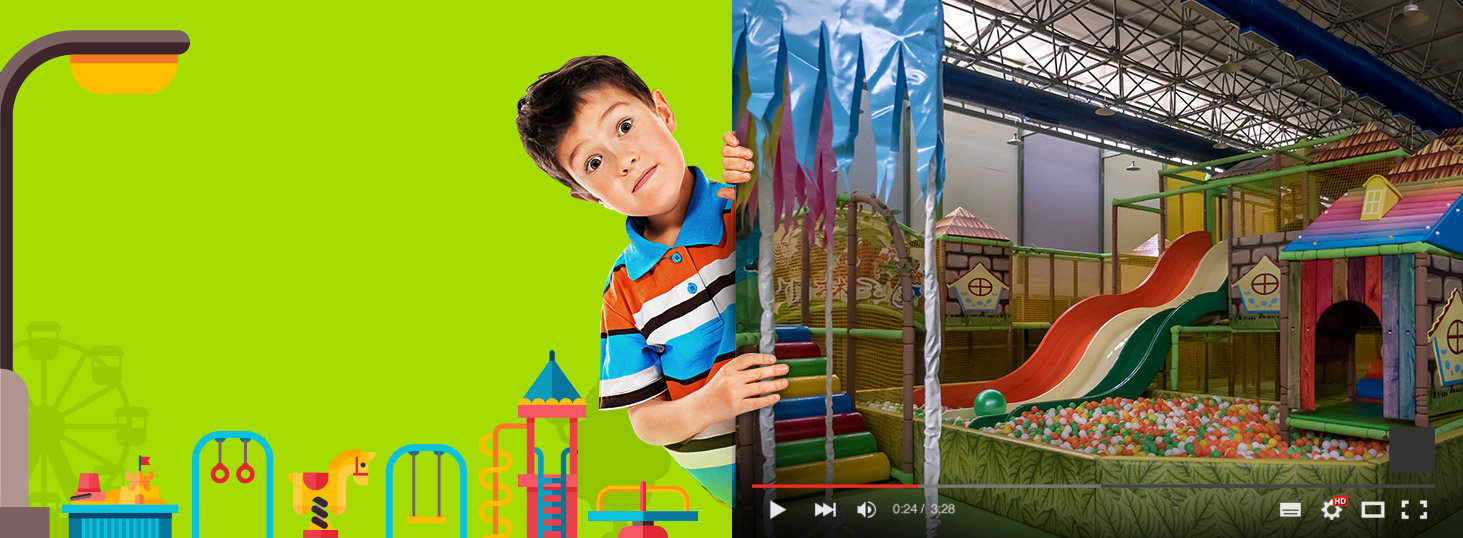
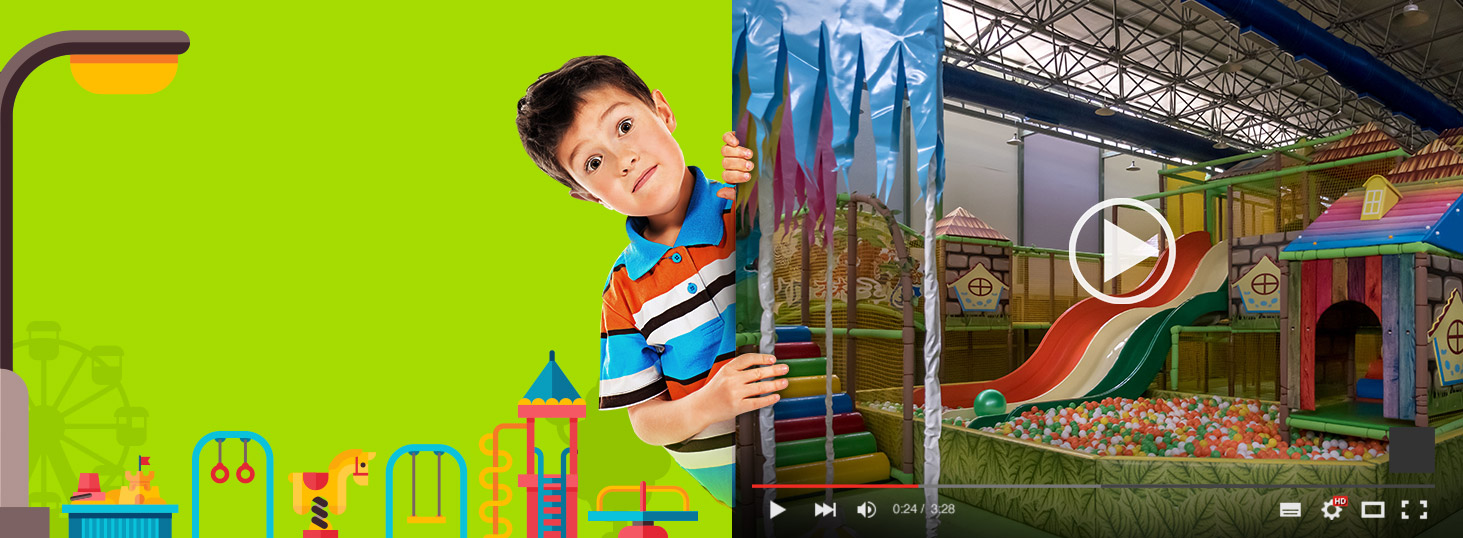
changes

Changed region(s): [[0.7075, 0.3569, 0.8305, 0.5651]]

diff --git a/production/mumbai/smaaash-junior/kids-play-area/index.html b/production/mumbai/smaaash-junior/kids-play-area/index.html
@@ -17,13 +17,25 @@
       <script src="https://oss.maxcdn.com/html5shiv/3.7.3/html5shiv.min.js"></script>
       <script src="https://oss.maxcdn.com/respond/1.4.2/respond.min.js"></script>
     <![endif]-->
+
+    <script>
+      (function(i,s,o,g,r,a,m){i['GoogleAnalyticsObject']=r;i[r]=i[r]||function(){
+      (i[r].q=i[r].q||[]).push(arguments)},i[r].l=1*new Date();a=s.createElement(o),
+      m=s.getElementsByTagName(o)[0];a.async=1;a.src=g;m.parentNode.insertBefore(a,m)
+      })(window,document,'script','https://www.google-analytics.com/analytics.js','ga');
+
+      ga('create', 'UA-65901622-1', 'auto');
+      ga('send', 'pageview');
+
+    </script>
+    
   </head>
   <body>
       
     <div class="container header_section">
       <div class="row" style="padding: 10px 0px;">
         <div class="col-md-6 col-xs-6">
-          <img src="tools/img/logo.png" alt="" class="img-responsive left_img">
+          <a href="index.html"><img src="tools/img/logo.png" alt="" class="img-responsive left_img"></a>
         </div>
         <div class="col-md-6 col-xs-6">
           <img src="tools/img/ryt_logo.png" alt="" class="img-responsive ryt_img">
@@ -121,11 +133,11 @@
             <img src="tools/img/weekdays.png" alt="" class="img-responsive end_day">
             <div class="img_mar">
               <img src="tools/img/price1.png" alt="" class="img-responsive price_img">
-              <button class="btn btn-default buy_butn" type="submit">BUY NOW</button>
+              <a class="btn btn-default buy_butn" href="https://smaaash.in/Mumbai/deals-and-packages/smaaash-junior-kids-play-area-60" target="_blank" role="button">BUY NOW</a>
             </div>
             <div class="img_mar2">
               <img src="tools/img/price2.png" alt="" class="img-responsive price_img">
-              <button class="btn btn-default buy_butn" type="submit">BUY NOW</button>
+              <a class="btn btn-default buy_butn" href="https://smaaash.in/Mumbai/deals-and-packages/smaaash-junior-kids-play-area-90" target="_blank" role="button">BUY NOW</a>
             </div>
           </div>
           </div>
@@ -136,11 +148,11 @@
             <img src="tools/img/weekends.png" alt="" class="img-responsive end_day">
             <div class="img_mar">
               <img src="tools/img/wprice1.png" alt="" class="img-responsive price_img">
-              <button class="btn btn-default buy_butn" type="submit">BUY NOW</button>
+              <a class="btn btn-default buy_butn" href="https://smaaash.in/Mumbai/deals-and-packages/smaaash-junior-kids-play-arena-60" target="_blank" role="button">BUY NOW</a>
             </div>
             <div class="img_mar2">
               <img src="tools/img/wprice2.png" alt="" class="img-responsive price_img">
-              <button class="btn btn-default buy_butn" type="submit">BUY NOW</button>
+              <a class="btn btn-default buy_butn" href="https://smaaash.in/Mumbai/deals-and-packages/smaaash-junior-kids-play-arena-90" target="_blank" role="button">BUY NOW</a>
             </div>
           </div>
           </div>
@@ -160,7 +172,7 @@
               <li>Indoor Kids Play Area</li>
               <li>Trampoline Park</li>
               <li>Arcade & Redemption Games</li>
-              <li class="btn_design"><button class="btn btn-default buy_butn1" type="submit">BUY NOW</button></li>
+              <li class="btn_design"><a class="btn btn-default buy_butn1" href="https://smaaash.in/Mumbai/deals-and-packages/smaaash-junior-kids-play-area-day-pass" target="_blank" role="button">BUY NOW</a></li>
             </ul>
           </div>
         </div>
@@ -169,9 +181,25 @@
 
     <div class="container video_section hidden-xs hidden-sm">
       <div class="row">
-        <div class="col-md-12 video_outer">
-          <img src="tools/img/video.jpg" class="img-responsive">
+        <div class="col-xs-12 video_outer">
+          <div data-toggle="modal" data-target="#myModal"><img src="tools/img/video.jpg" alt="" class="img-responsive"></div>
           <p class="video_text">Non-stop fun for non-stop kids. Take a <br>sneak peak into how your little ones <br>would have a whale of a time at <br>Smaaash Junior. They’ll slide, swirl, <br>jump, scream and stay jovial throughout, <br>we bet. The happy faces say it all!</p>
+
+          <!-- Modal -->
+          <div class="modal fade bs-example-modal-lg" id="myModal" role="dialog">
+            <div class="modal-dialog modal-lg">
+            
+              <!-- Modal content-->
+              <div class="modal-content">
+                <div class="modal-body" style="background-color: #000;">
+                  <button type="button" class="close clse_design" data-dismiss="modal">&times;</button>
+                  <iframe width="100%" height="500" src="https://www.youtube.com/embed/FNJCWrgHmqA" frameborder="0" allowfullscreen></iframe> 
+                </div>
+              </div>
+              
+            </div>
+          </div>
+
         </div>
       </div>
     </div>
@@ -179,7 +207,7 @@
     <div class="container hidden-md hidden-lg">
       <div class="row">
         <div class="col-xs-12 video_outer">
-          <img src="tools/img/cloud.jpg" alt="" class="img-responsive">
+          <a href="https://smaaash.in/Mumbai/deals-and-packages/smaaash-junior-kids-play-area-day-pass" target="_blank"><img src="tools/img/cloud.jpg" alt="" class="img-responsive"></a>
         </div>
       </div>
        <div class="row">
@@ -226,16 +254,33 @@
             <!-- Wrapper for slides -->
             <div class="carousel-inner">
               <div class="item active">
-                <img src="tools/img/gallery.png" alt="" class="img-responsive" style="margin: 0 auto; height:250px;">
+                <img src="tools/img/gallery1.png" alt="" class="img-responsive" style="margin: 0 auto; height:250px;">
               </div>
 
               <div class="item">
-                <img src="tools/img/gallery.png" alt="" class="img-responsive" style="margin: 0 auto; height:250px;">
+                <img src="tools/img/gallery2.png" alt="" class="img-responsive" style="margin: 0 auto; height:250px;">
               </div>
             
               <div class="item">
-                <img src="tools/img/gallery.png" alt="" class="img-responsive" style="margin: 0 auto; height:250px;">
+                <img src="tools/img/gallery3.png" alt="" class="img-responsive" style="margin: 0 auto; height:250px;">
               </div>
+
+              <div class="item">
+                <img src="tools/img/gallery4.png" alt="" class="img-responsive" style="margin: 0 auto; height:250px;">
+              </div>
+
+              <div class="item">
+                <img src="tools/img/gallery5.png" alt="" class="img-responsive" style="margin: 0 auto; height:250px;">
+              </div>
+
+              <div class="item">
+                <img src="tools/img/gallery6.png" alt="" class="img-responsive" style="margin: 0 auto; height:250px;">
+              </div>
+
+              <div class="item">
+                <img src="tools/img/gallery7.png" alt="" class="img-responsive" style="margin: 0 auto; height:250px;">
+              </div>
+
             </div>
 
             <!-- Left and right controls -->

diff --git a/production/mumbai/smaaash-junior/kids-play-area/games.html b/production/mumbai/smaaash-junior/kids-play-area/games.html
@@ -17,13 +17,25 @@
       <script src="https://oss.maxcdn.com/html5shiv/3.7.3/html5shiv.min.js"></script>
       <script src="https://oss.maxcdn.com/respond/1.4.2/respond.min.js"></script>
     <![endif]-->
+
+    <script>
+      (function(i,s,o,g,r,a,m){i['GoogleAnalyticsObject']=r;i[r]=i[r]||function(){
+      (i[r].q=i[r].q||[]).push(arguments)},i[r].l=1*new Date();a=s.createElement(o),
+      m=s.getElementsByTagName(o)[0];a.async=1;a.src=g;m.parentNode.insertBefore(a,m)
+      })(window,document,'script','https://www.google-analytics.com/analytics.js','ga');
+
+      ga('create', 'UA-65901622-1', 'auto');
+      ga('send', 'pageview');
+
+    </script>
+    
   </head>
   <body>
       
     <div class="container header_section">
       <div class="row" style="padding: 10px 0px;">
         <div class="col-md-6 col-xs-6">
-          <img src="tools/img/logo.png" alt="" class="img-responsive left_img">
+          <a href="index.html"><img src="tools/img/logo.png" alt="" class="img-responsive left_img"></a>
         </div>
         <div class="col-md-6 col-xs-6">
           <img src="tools/img/gameslogo.png" alt="" class="img-responsive ryt_img1">

diff --git a/production/mumbai/smaaash-junior/kids-play-area/party.html b/production/mumbai/smaaash-junior/kids-play-area/party.html
@@ -17,13 +17,25 @@
       <script src="https://oss.maxcdn.com/html5shiv/3.7.3/html5shiv.min.js"></script>
       <script src="https://oss.maxcdn.com/respond/1.4.2/respond.min.js"></script>
     <![endif]-->
+
+    <script>
+      (function(i,s,o,g,r,a,m){i['GoogleAnalyticsObject']=r;i[r]=i[r]||function(){
+      (i[r].q=i[r].q||[]).push(arguments)},i[r].l=1*new Date();a=s.createElement(o),
+      m=s.getElementsByTagName(o)[0];a.async=1;a.src=g;m.parentNode.insertBefore(a,m)
+      })(window,document,'script','https://www.google-analytics.com/analytics.js','ga');
+
+      ga('create', 'UA-65901622-1', 'auto');
+      ga('send', 'pageview');
+
+    </script>
+    
   </head>
   <body>
       
     <div class="container header_section">
       <div class="row" style="padding: 10px 0px;">
         <div class="col-md-6 col-xs-6">
-          <img src="tools/img/logo.png" alt="" class="img-responsive left_img">
+          <a href="index.html"><img src="tools/img/logo.png" alt="" class="img-responsive left_img"></a>
         </div>
         <div class="col-md-6 col-xs-6">
           <img src="tools/img/partylogo.png" alt="" class="img-responsive ryt_img">

diff --git a/production/mumbai/smaaash-junior/kids-play-area/menu.html b/production/mumbai/smaaash-junior/kids-play-area/menu.html
@@ -17,13 +17,25 @@
       <script src="https://oss.maxcdn.com/html5shiv/3.7.3/html5shiv.min.js"></script>
       <script src="https://oss.maxcdn.com/respond/1.4.2/respond.min.js"></script>
     <![endif]-->
+
+    <script>
+      (function(i,s,o,g,r,a,m){i['GoogleAnalyticsObject']=r;i[r]=i[r]||function(){
+      (i[r].q=i[r].q||[]).push(arguments)},i[r].l=1*new Date();a=s.createElement(o),
+      m=s.getElementsByTagName(o)[0];a.async=1;a.src=g;m.parentNode.insertBefore(a,m)
+      })(window,document,'script','https://www.google-analytics.com/analytics.js','ga');
+
+      ga('create', 'UA-65901622-1', 'auto');
+      ga('send', 'pageview');
+
+    </script>
+
   </head>
   <body>
       
     <div class="container header_section">
       <div class="row" style="padding: 10px 0px;">
         <div class="col-md-6 col-xs-6">
-          <img src="tools/img/logo.png" alt="" class="img-responsive left_img">
+          <a href="index.html"><img src="tools/img/logo.png" alt="" class="img-responsive left_img"></a>
         </div>
         <div class="col-md-6 col-xs-6">
           <img src="tools/img/menulogo.png" alt="" class="img-responsive ryt_img">

diff --git a/production/mumbai/smaaash-junior/kids-play-area/tools/css/style.css b/production/mumbai/smaaash-junior/kids-play-area/tools/css/style.css
@@ -89,6 +89,16 @@ body{background-image: url('../img/bg.jpg'); width: 100%; background-repeat: rep
 .ryt_img1{width: 270px; margin-top: 0px; position: absolute; z-index: 9; right: 90px; height: 120px;}
 .marg_block{margin-bottom: 20px;}
 .top_heading{font-family:"oswald_bold"; color: #ff2e28; text-transform: uppercase;}
+.clse_design{opacity: 1; margin-top: -28px; margin-right: -28px;}
+button.close.clse_design {
+    background-color: #000;
+    color: #fff;
+    border-radius: 25px;
+    width: 30px;
+    padding: 5px 4px;
+}
+button.close.clse_design:hover {opacity: 1;}
+
 
 
 @media (max-width: 767px) {
